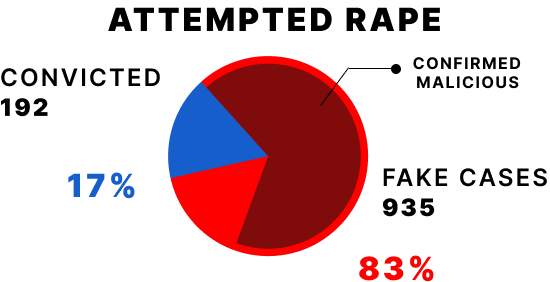
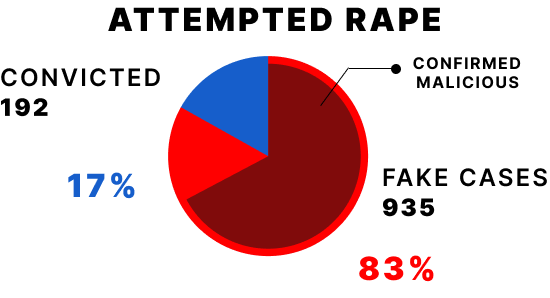
metro piecharts

diff --git a/false-cases-react/src/components/DataVis/PieImgs/PieImgs.jsx b/false-cases-react/src/components/DataVis/PieImgs/PieImgs.jsx
@@ -6,18 +6,17 @@ import rape_pie from './india-imgs/rape_pie.png'
 import att_rape_pie from './india-imgs/att_rape_pie.png'
 import sa_pie from './india-imgs/sa_pie.png'
 
-/*import cruelty_pie_metro from './metro-imgs/cruelty_pie.png'
+import cruelty_pie_metro from './metro-imgs/cruelty_pie.png'
 import rape_pie_metro from './metro-imgs/rape_pie.png'
 import att_rape_pie_metro from './metro-imgs/att_rape_pie.png'
-import sa_pie_metro from './metro-imgs/sa_pie.png'*/
+import sa_pie_metro from './metro-imgs/sa_pie.png'
 
 
 const indiaPies = [rape_pie, att_rape_pie, sa_pie, cruelty_pie ]
-//const metroPies = [rape_pie_metro, att_rape_pie_metro, sa_pie_metro, cruelty_pie_metro ]
+const metroPies = [rape_pie_metro, att_rape_pie_metro, sa_pie_metro, cruelty_pie_metro ]
 
 const PieImgs = ({isMetro}) => {
-  //const pieArray = isMetro ? metroPies : indiaPies
-  const pieArray = indiaPies
+  const pieArray = isMetro ? metroPies : indiaPies
   
   return (
     <div className="pie-imgs">

diff --git a/false-cases-react/src/components/Content.jsx b/false-cases-react/src/components/Content.jsx
@@ -21,7 +21,7 @@ const Content = () => {
 
         <p><span className="red">The women who falsely accuse men</span>, often for <span className="red">extortion, blackmail, revenge, and covering up their misconduct</span>, exploit the justice system for their own ends. 
           These women not only destroy innocent lives but also erode trust in the very system designed to protect them. 
-          Consequences for false accusers should be as severe as those for the men wrongfully accused, to deter the abuse of the justice system.</p><br/>
+          Consequences for false accusers should be severe to deter the abuse of the justice system.</p><br/>
         
         <h5><b>ANALYSIS</b></h5>
         <p>This analysis aims to unveil the <span className="red">alarming prevalence of fake cases</span>, which are often overlooked due to being <span className="red">hidden behind the legal process</span> or, at times, actively diminished to downplay the issue of false accusations.</p>

diff --git a/false-cases-react/src/components/AreaCharts/ChartsGrid.css b/false-cases-react/src/components/AreaCharts/ChartsGrid.css
@@ -1,8 +1,24 @@
 /* Chart container styling */
 .graphs .col-lg-6 {
-    padding: 70px;
+    padding: 50px;
 }
 .chart-title {
     text-align: center;
     font-weight: bold;
+}
+
+/* Tablet */
+@media (max-width: 1300px) and (min-width: 768px) {
+    .graphs .col-lg-6 {
+        padding: 0px;
+        margin-top: 30px;
+    }
+}
+
+/* Mobile */
+@media (max-width: 767px) {
+    .graphs .col-lg-6 {
+        padding: 0px;
+        margin-top: 30px;
+    }
 }

diff --git a/false-cases-react/src/components/Explanation/Explanation.jsx b/false-cases-react/src/components/Explanation/Explanation.jsx
@@ -6,7 +6,7 @@ import MethodImgs from './MethodImgs/MethodImgs'
 const Explanation = () => {
   return (
     <div>
-        <h2 id="methodology">How is estimation done?</h2>
+        <h2 id="methodology" className='mt-4'>How is estimation done?</h2>
 
         <MethodImgs />
         

diff --git a/false-cases-react/src/components/DataVis/PieImgs/PieImgs.css b/false-cases-react/src/components/DataVis/PieImgs/PieImgs.css
@@ -2,8 +2,8 @@
     padding: 60px;
 }
 
-/* Tablet */
-@media (max-width: 1200px) and (min-width: 768px) {
+/* Tablet  & Mobile */
+@media (max-width: 1200px) {
     .pie-imgs .col-md-6 {
         padding: 30px;
     }

diff --git a/false-cases-react/src/components/DataVis/DataVis.css b/false-cases-react/src/components/DataVis/DataVis.css
@@ -46,3 +46,10 @@ h1.red {
     border-radius: 5px;
     padding: 20px;
 }
+
+/* Tablet  & Mobile */
+@media (max-width: 1200px) {
+    .trends-head {
+        margin-bottom: 10px;
+    }
+}
